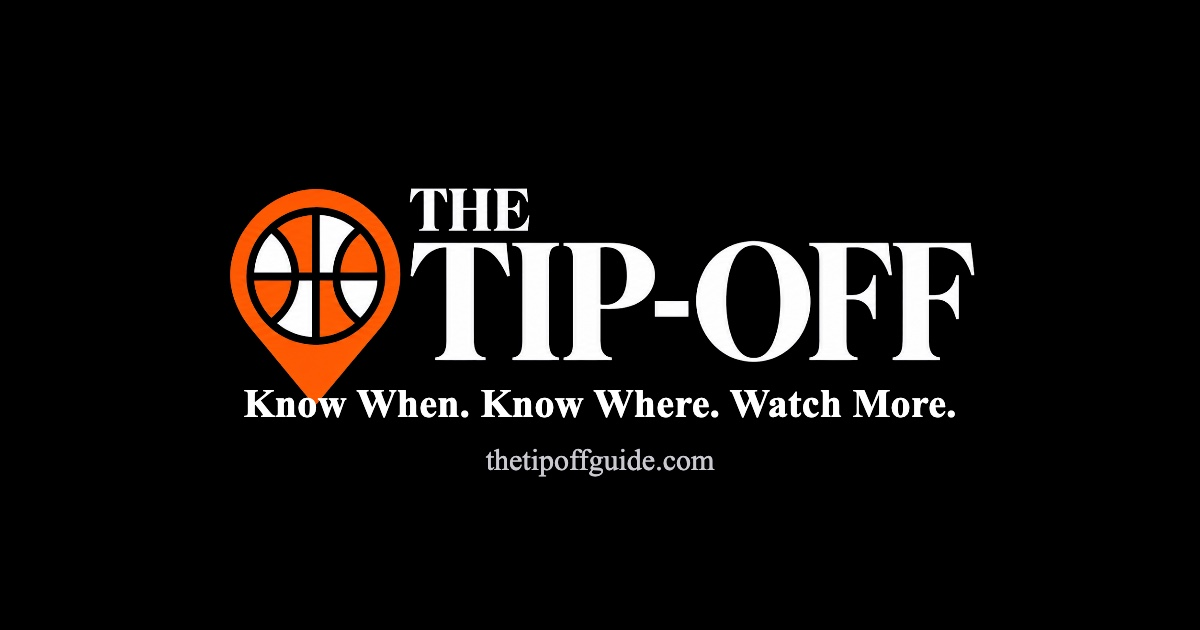
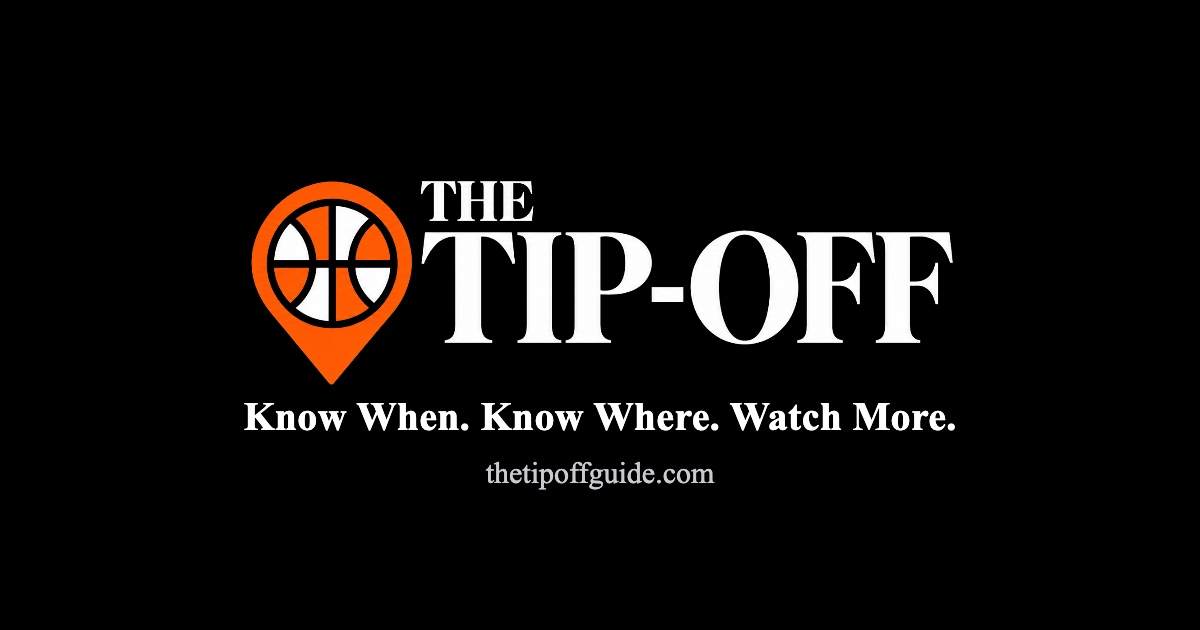
Share card: space between the pin and the tagline

Changed region(s): [[0.185, 0.2714, 0.8325, 0.7841]]

diff --git a/index.html b/index.html
@@ -17,7 +17,7 @@
   <!-- Social cards: how links look when shared in messages and on social media -->
   <meta property="og:type" content="website" />
   <meta property="og:url" content="https://thetipoffguide.com/" />
-  <meta property="og:image" content="https://thetipoffguide.com/assets/social-card.jpg?v=3" />
+  <meta property="og:image" content="https://thetipoffguide.com/assets/social-card.jpg?v=4" />
   <meta property="og:image:width" content="1200" />
   <meta property="og:image:height" content="630" />
   <meta property="og:image:alt" content="The Tip-Off. Know when. Know where. Watch more. thetipoffguide.com" />
@@ -29,7 +29,7 @@
   <meta name="twitter:card" content="summary_large_image" />
   <meta name="twitter:title" content="Where to Watch Women's Basketball — Free &amp; Paid" />
   <meta name="twitter:description" content="Every game, every channel and streaming service, and which games are free." />
-  <meta name="twitter:image" content="https://thetipoffguide.com/assets/social-card.jpg?v=3" />
+  <meta name="twitter:image" content="https://thetipoffguide.com/assets/social-card.jpg?v=4" />
 
   <link rel="icon" type="image/png" sizes="192x192" href="assets/brand/favicon-192.png?v=1" />
   <link rel="icon" type="image/png" sizes="64x64" href="assets/brand/favicon-64.png?v=4" />
